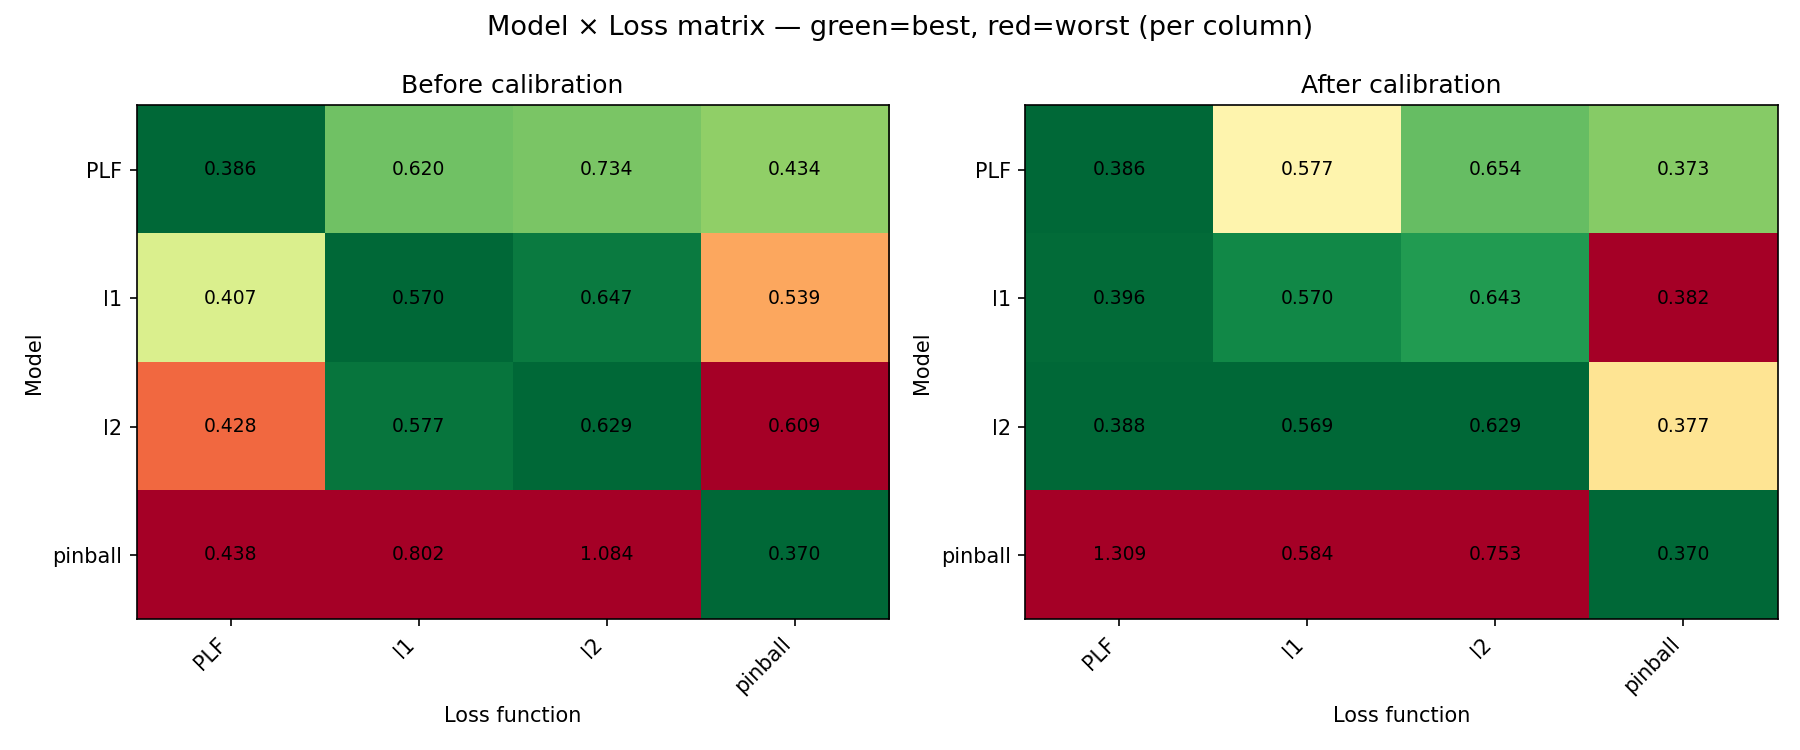
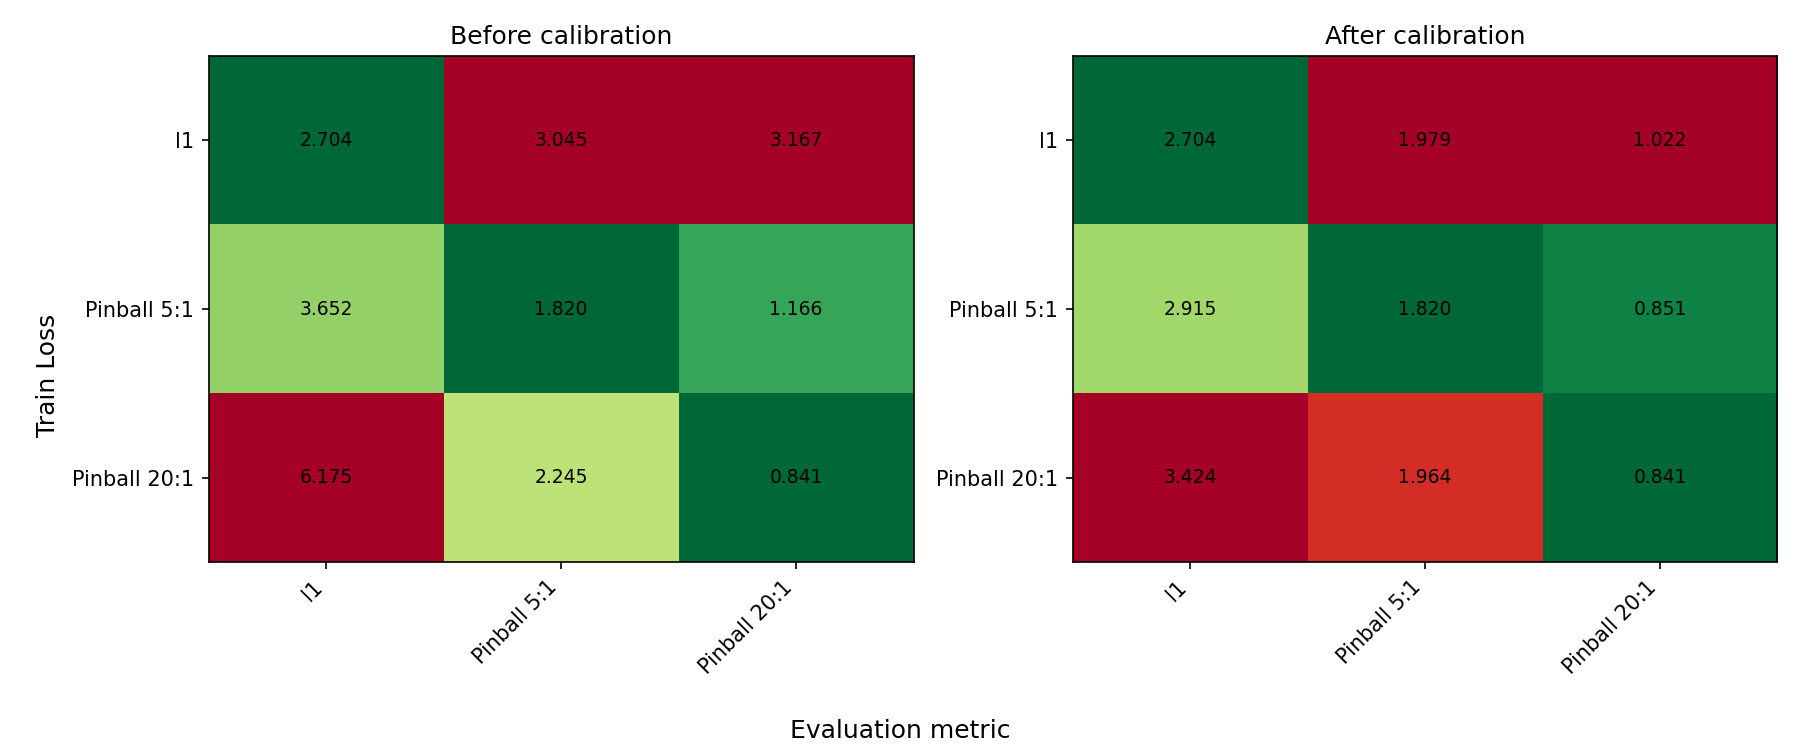
tex

diff --git a/tex/evaluation.tex b/tex/evaluation.tex
@@ -75,6 +75,23 @@ each evaluation cost function, before and after post-hoc calibration.
     \end{tabular}
 \end{table}
 
+Figure~\ref{fig:confusion-matrix} visualises the same results as a colour-coded
+model~$\times$~loss matrix, making it easy to see at a glance which model wins
+on each metric and how calibration shifts the ranking.
+
+\begin{figure}[H]
+    \centering
+    \includegraphics[width=\linewidth]{plot/confusion_matrix.png}
+    \caption{Model~$\times$~loss matrix.  Each cell shows the test-set cost of
+             a given model (row) under a given evaluation metric (column),
+             before calibration (left) and after post-hoc affine calibration
+             (right).  Green shading marks the best value in each column; red
+             marks the worst.  The diagonal tendency --- each model performing
+             best on its own training metric --- is clearly visible, as is the
+             PLF model's consistent advantage on the PLF column.}
+    \label{fig:confusion-matrix}
+\end{figure}
+
 \subsection{Discussion}
 
 \paragraph{Cost-aware training outperforms symmetric baselines.}
